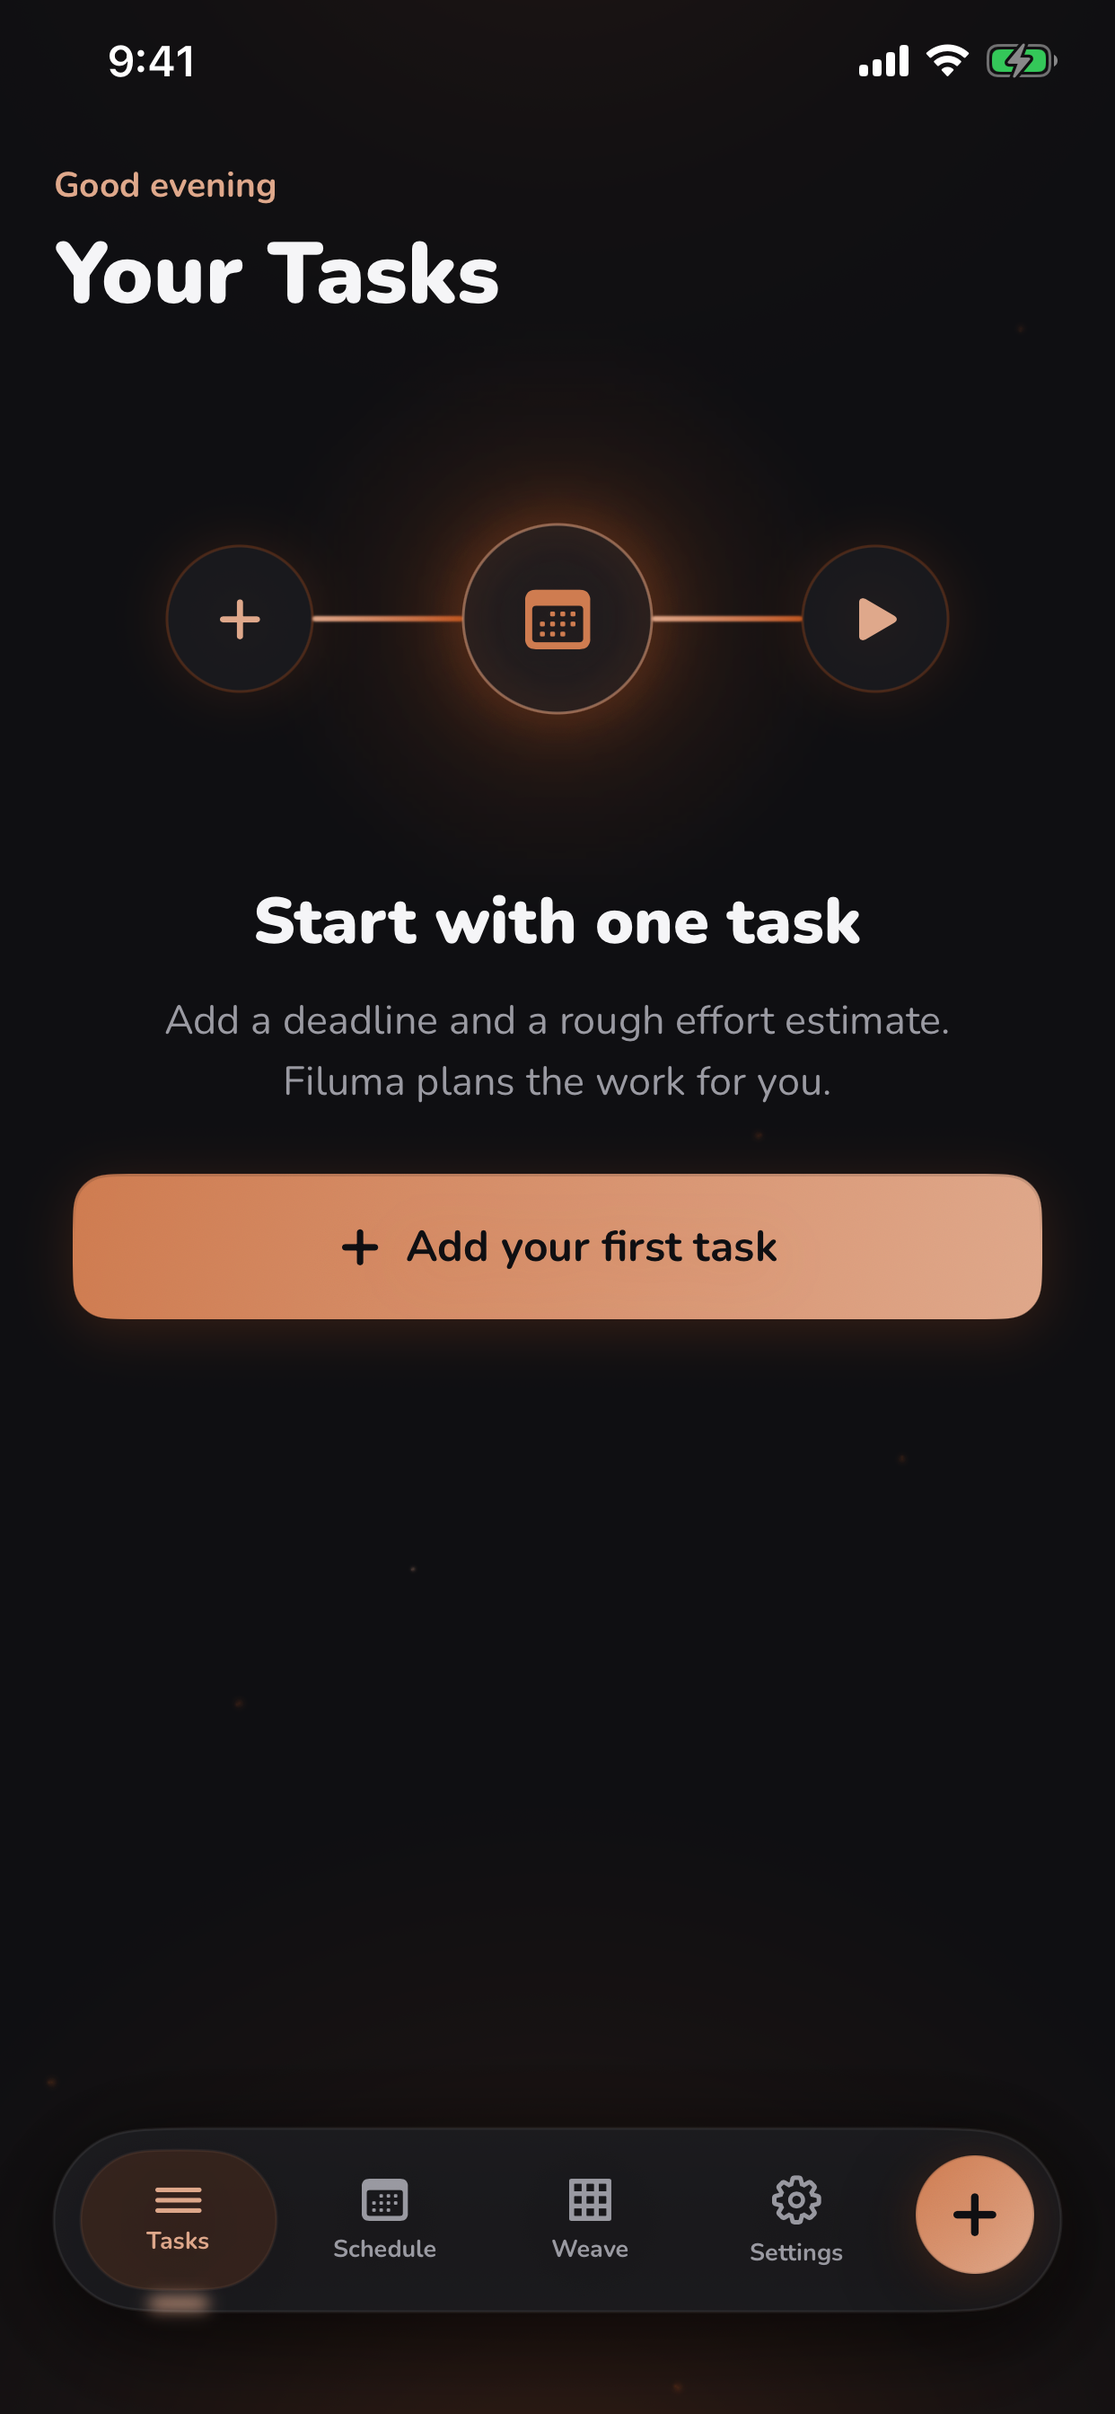
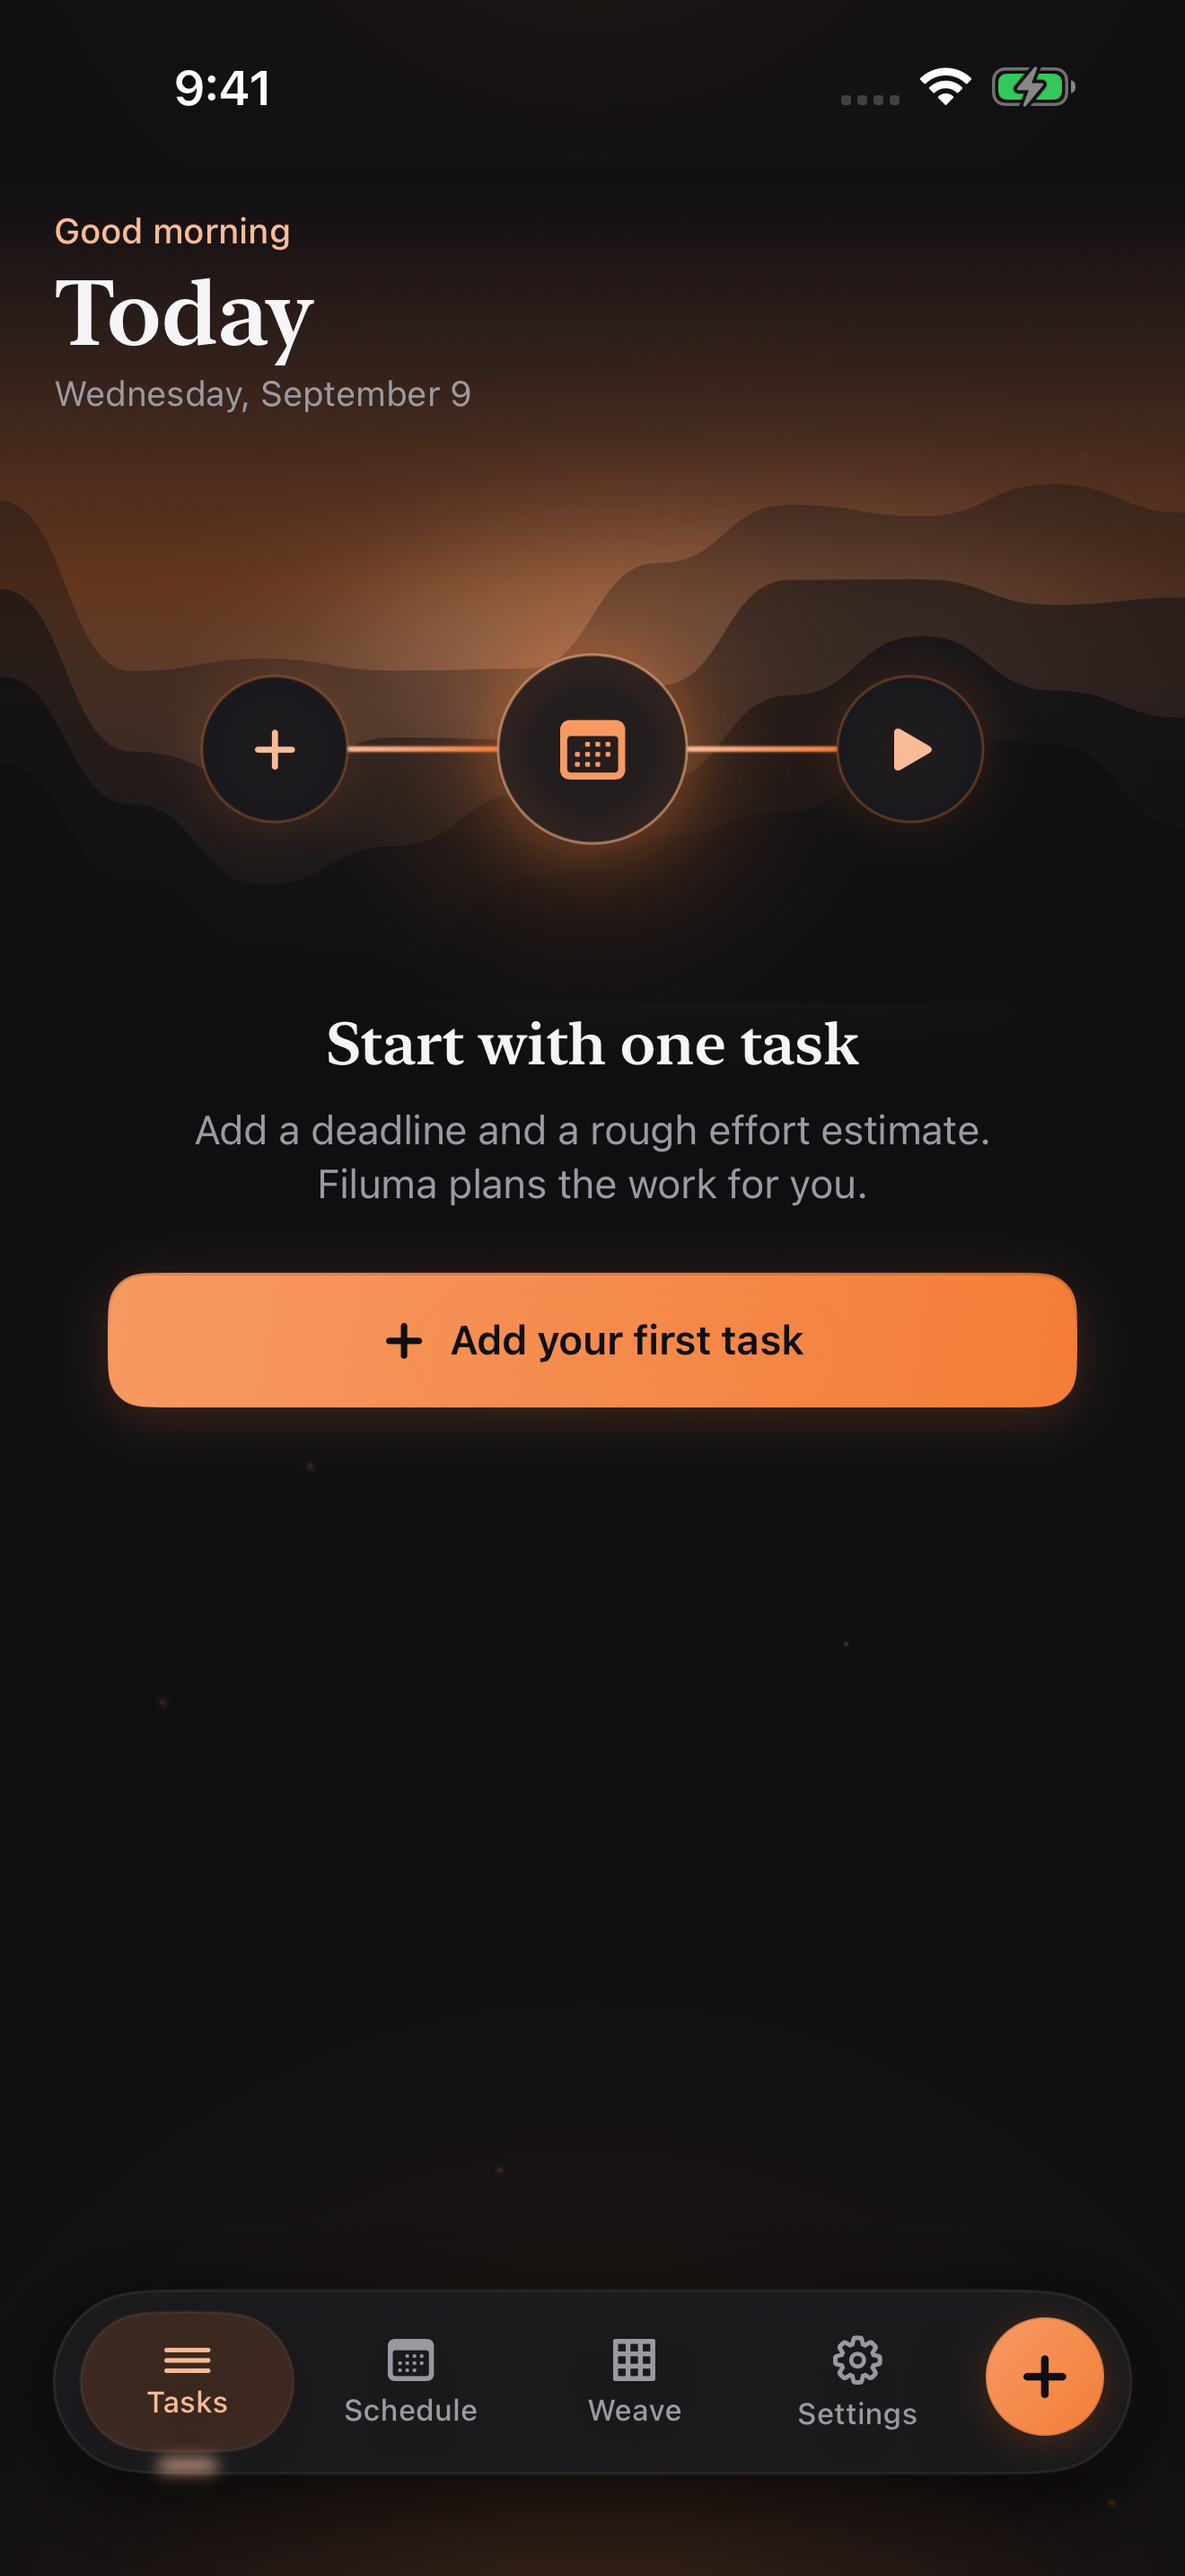
Refresh Filuma screenshots for the upcoming 1.4 update

diff --git a/projects/filuma/index.html b/projects/filuma/index.html
@@ -42,7 +42,7 @@
         <p class="filuma-note">Built with ADHD planning challenges in mind.<br>By Nick Christoforakis, a neuroscience student at Middlebury.</p>
       </div>
       <figure class="filuma-hero__screen">
-        <img src="/assets/apps/filuma-focus.png" alt="Filuma’s Focus card shows a block to review neuroanatomy notes, the first step, and a Start early button." width="1242" height="2688" fetchpriority="high" />
+        <img src="/assets/apps/filuma-focus.png" alt="Filuma’s Today view shows a Design project, scheduled sessions, and upcoming work." width="1320" height="2868" fetchpriority="high" />
         <figcaption>The next block. The first action. A place to begin.</figcaption>
       </figure>
     </section>
@@ -59,18 +59,18 @@
             <p>Your sleep window, blocked time, and optional daily focus limit shape the plan. You can also choose Apple calendars whose events should count as busy time.</p>
           </div>
         </div>
-        <p class="app-gallery-hint" id="workflow-hint">Three screens from Filuma. <span class="app-gallery-hint__scroll">Scroll to explore. </span>Select a screen to view it full size.</p>
+        <p class="app-gallery-hint" id="workflow-hint">Three screens from the upcoming Filuma 1.4 update. <span class="app-gallery-hint__scroll">Scroll to explore. </span>Select a screen to view it full size.</p>
         <div class="app-gallery" role="region" aria-label="How Filuma works" aria-describedby="workflow-hint" tabindex="0">
           <figure>
-            <a href="/assets/apps/filuma-first-task.png" target="_blank" rel="noopener" aria-label="Open Filuma first task screenshot full size in a new tab"><img src="/assets/apps/filuma-first-task.png" alt="The empty task list invites you to add one task, a deadline, and an effort estimate." width="1242" height="2688" loading="lazy" decoding="async" /></a>
+            <a href="/assets/apps/filuma-first-task.png" target="_blank" rel="noopener" aria-label="Open Filuma first task screenshot full size in a new tab"><img src="/assets/apps/filuma-first-task.png" alt="The empty task list invites you to add one task, a deadline, and an effort estimate." width="1320" height="2868" loading="lazy" decoding="async" /></a>
             <figcaption><strong>01 / Capture the work.</strong><span>Start with one task. Add a deadline and estimate how much time it needs.</span></figcaption>
           </figure>
           <figure>
-            <a href="/assets/apps/filuma-focus.png" target="_blank" rel="noopener" aria-label="Open Filuma Focus screenshot full size in a new tab"><img src="/assets/apps/filuma-focus.png" alt="A Focus card puts the next work block and its first action above the upcoming task list." width="1242" height="2688" loading="lazy" decoding="async" /></a>
+            <a href="/assets/apps/filuma-focus.png" target="_blank" rel="noopener" aria-label="Open Filuma Focus screenshot full size in a new tab"><img src="/assets/apps/filuma-focus.png" alt="A Focus card puts the next work block and its first action above the upcoming task list." width="1320" height="2868" loading="lazy" decoding="async" /></a>
             <figcaption><strong>02 / Find your next step.</strong><span>See the next block and an optional first action, such as opening your notes.</span></figcaption>
           </figure>
           <figure>
-            <a href="/assets/apps/filuma-session.png" target="_blank" rel="noopener" aria-label="Open Filuma work session screenshot full size in a new tab"><img src="/assets/apps/filuma-session.png" alt="An active work session shows a timer, effort budget, and controls to pause or end and log the session." width="1242" height="2688" loading="lazy" decoding="async" /></a>
+            <a href="/assets/apps/filuma-session.png" target="_blank" rel="noopener" aria-label="Open Filuma work session screenshot full size in a new tab"><img src="/assets/apps/filuma-session.png" alt="An active work session shows a timer, effort budget, and controls to pause or end and log the session." width="1320" height="2868" loading="lazy" decoding="async" /></a>
             <figcaption><strong>03 / Work, then reassess.</strong><span>Track a session and record your progress. Missed blocks are replanned when the day changes.</span></figcaption>
           </figure>
         </div>

diff --git a/nicholas/index.html b/nicholas/index.html
@@ -40,7 +40,7 @@
       </div>
       <div class="app-preview-pair" aria-label="Explore my apps">
         <a href="#filuma" class="app-preview">
-          <img src="/assets/apps/filuma-focus.png" alt="Filuma’s Focus view, with the next work block and upcoming tasks" width="1242" height="2688" fetchpriority="high" />
+          <img src="/assets/apps/filuma-focus.png" alt="Filuma’s Focus view, with the next work block and upcoming tasks" width="1320" height="2868" fetchpriority="high" />
           <span>Filuma <span aria-hidden="true">↓</span></span>
         </a>
         <a href="#meds-ahead" class="app-preview">
@@ -66,18 +66,18 @@
             <p><a class="text-link" href="https://apps.apple.com/app/filuma/id6792247549">Get Filuma on the App Store <span aria-hidden="true">↗</span></a></p>
           </div>
         </div>
-        <p class="app-gallery-hint" id="filuma-gallery-hint">Three views from Filuma. <span class="app-gallery-hint__scroll">Scroll to explore. </span>Select a screen to explore the gallery.</p>
+        <p class="app-gallery-hint" id="filuma-gallery-hint">Three views from the upcoming Filuma 1.4 update. <span class="app-gallery-hint__scroll">Scroll to explore. </span>Select a screen to explore the gallery.</p>
         <div class="app-gallery" role="region" aria-label="Filuma screenshots" aria-describedby="filuma-gallery-hint" tabindex="0">
           <figure>
-            <a href="/assets/apps/filuma-focus.png" target="_blank" rel="noopener" aria-label="Open Filuma Focus screenshot full size in a new tab"><img src="/assets/apps/filuma-focus.png" alt="Your Tasks: a Focus card for reviewing neuroanatomy notes, a first step, and the next scheduled tasks" width="1242" height="2688" loading="lazy" decoding="async" /></a>
+            <a href="/assets/apps/filuma-focus.png" target="_blank" rel="noopener" aria-label="Open Filuma Focus screenshot full size in a new tab"><img src="/assets/apps/filuma-focus.png" alt="Today: a Design project, scheduled sessions, and the next scheduled tasks" width="1320" height="2868" loading="lazy" decoding="async" /></a>
             <figcaption><strong>One clear next step.</strong><span>The next work block, its first action, and what follows.</span></figcaption>
           </figure>
           <figure>
-            <a href="/assets/apps/filuma-first-task.png" target="_blank" rel="noopener" aria-label="Open Filuma first task screenshot full size in a new tab"><img src="/assets/apps/filuma-first-task.png" alt="Filuma’s empty task list invites you to add one task, a deadline, and an effort estimate" width="1242" height="2688" loading="lazy" decoding="async" /></a>
+            <a href="/assets/apps/filuma-first-task.png" target="_blank" rel="noopener" aria-label="Open Filuma first task screenshot full size in a new tab"><img src="/assets/apps/filuma-first-task.png" alt="Filuma’s empty task list invites you to add one task, a deadline, and an effort estimate" width="1320" height="2868" loading="lazy" decoding="async" /></a>
             <figcaption><strong>Start with one task.</strong><span>A deadline and an estimate give the plan somewhere to begin.</span></figcaption>
           </figure>
           <figure>
-            <a href="/assets/apps/filuma-session.png" target="_blank" rel="noopener" aria-label="Open Filuma work session screenshot full size in a new tab"><img src="/assets/apps/filuma-session.png" alt="An active work session with a focus timer, effort budget, Pause, and End and log session controls" width="1242" height="2688" loading="lazy" decoding="async" /></a>
+            <a href="/assets/apps/filuma-session.png" target="_blank" rel="noopener" aria-label="Open Filuma work session screenshot full size in a new tab"><img src="/assets/apps/filuma-session.png" alt="An active work session with a focus timer, effort budget, Pause, and End and log session controls" width="1320" height="2868" loading="lazy" decoding="async" /></a>
             <figcaption><strong>Stay with the work.</strong><span>A focused session, with room to pause and log your progress.</span></figcaption>
           </figure>
         </div>
